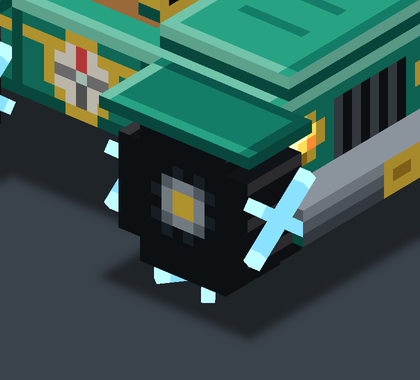
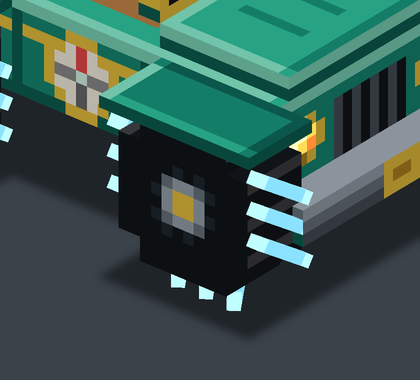
v0.3.6: tırmanma tutucuları paralel çapraz (////) 3B çubuklar
Claude-Session: https://claude.ai/code/session_016dSUtqjRQFdnbyLYXoqgnG

diff --git a/aqualit/kesif_araclar.py b/aqualit/kesif_araclar.py
@@ -541,21 +541,22 @@ def arazi():
         add_box(f, bone, 'a_tire2_' + nm, (x0, 2, z - 6), (x0 + 6, 10, z + 6), base='k',
                 front=tread(6, 8, 'v'), back=tread(6, 8, 'v'), left=cross_side, right=mirror_h(cross_side),
                 top=tread(6, 12, 'v'), bottom=tread(6, 12, 'v'))
-    # v0.3.6: tırmanma tutucuları: tekerleklerin sırtında çapraz (X) duran, kabarık, mavi parlayan 3B çubuklar
-    # (her tekerleğin üst, alt, ön ve arka yüzünde ikişer çubuk; Tırmanma Modu açılınca görünür, kesif_oyun.py 'tutucu')
+    # v0.3.6: tırmanma tutucuları: tekerleklerin sırtında aynı yöne çapraz (////) duran, kabarık, mavi parlayan 3B çubuklar
+    # (her tekerleğin üst, alt, ön ve arka yüzünde üçer paralel çubuk; Tırmanma Modu açılınca görünür, kesif_oyun.py 'tutucu')
     for nm, x, z in (('fl', -13, 14), ('fr', 13, 14), ('bl', -13, -14), ('br', 13, -14)):
         bone = 'a_tut_' + nm
         f.bone(bone, 'a_wheel_' + nm, (x, 6, z))
-        cubuk_on = rows('~<<<<<<~')          # uzun yüzler: uçları açık mavi
         uc = rows('~')
         yuzler = (('u', (x, 12.5, z), 'Y'), ('a', (x, -0.5, z), 'Y'), ('o', (x, 6, z + 6.5), 'Z'), ('b', (x, 6, z - 6.5), 'Z'))
         for yz, (cx, cy, cz), eksen in yuzler:
-            for k, aci in enumerate((38, -38)):
+            # //// : hepsi aynı yöne eğik, yuvarlanma yönünde yan yana üç paralel çubuk (zincir dişi gibi)
+            for k, ofs in enumerate((-2.6, 0, 2.6)):
                 bn = f'a_tut_{nm}_{yz}{k}'
-                f.bone(bn, bone, (cx, cy, cz), (0, aci, 0) if eksen == 'Y' else (0, 0, aci))
-                aa, bb = (cx - 4, cy - 0.5, cz - 0.5), (cx + 4, cy + 0.5, cz + 0.5)
+                px, py, pz = (cx, cy, cz + ofs) if eksen == 'Y' else (cx, cy + ofs, cz)
+                f.bone(bn, bone, (px, py, pz), (0, 35, 0) if eksen == 'Y' else (0, 0, 35))
+                aa, bb = (px - 3.5, py - 0.5, pz - 0.5), (px + 3.5, py + 0.5, pz + 0.5)
                 add_box(f, bn, bn, aa, bb, base='<', glow='<~',
-                        front=cubuk_on, back=rows('~<<<<<<~'), top=rows('~<<<<<<~'), bottom=rows('~<<<<<<~'),
+                        front=rows('~<<<<<~'), back=rows('~<<<<<~'), top=rows('~<<<<<~'), bottom=rows('~<<<<<~'),
                         left=uc, right=rows('~'))
     # gövde
     bs = stripe_panel(36, 8, 'M', stripe=[2], stripe_c='y', seams=(11, 23))

diff --git a/aqualit/docs/RAPOR_v0.3.6.md b/aqualit/docs/RAPOR_v0.3.6.md
@@ -16,7 +16,7 @@
 ## Yeni: Tırmanma Modu (arazi aracı)
 
 - Yalnız **arazi aracına binince** envantere gelir (inince, ya da araç başka şeye dönüşünce geri alınır).
-- **Basılı tut:** tekerleklerin sırtında (üst, alt, ön, arka yüzde) çapraz (X) duran, kabarık, mavi parlayan 3B çubuklar çıkar; eşya maviye döner. Bir daha basılı tut: kapanır.
+- **Basılı tut:** tekerleklerin sırtında (üst, alt, ön, arka yüzde) aynı yöne eğik (////), yan yana üçer kabarık, mavi parlayan 3B çubuk çıkar; eşya maviye döner. Bir daha basılı tut: kapanır.
 - Tutucular açıkken **düz duvara doğru sür**: araç duvara yapışır, burnu dikilir (80°), yukarı tırmanır. Üste varınca yerçekimi geri gelir.
   Basmayı bırakınca duvarda tutunur, düşmez; **geri** basınca aşağı iner.
 - Duvarın üstü 64 bloğa kadar aranır; yoksa tavana kadar tırmanır.
